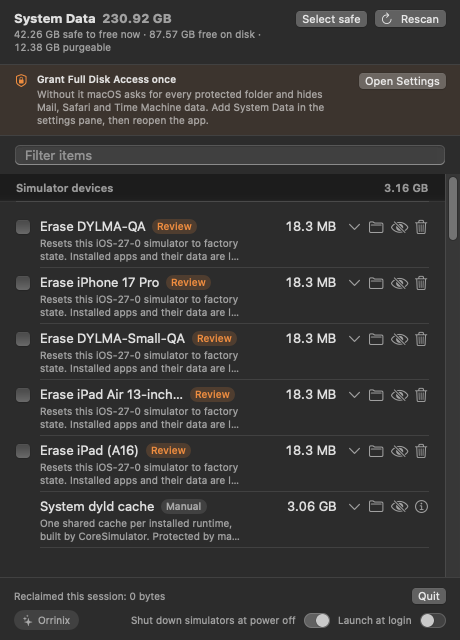
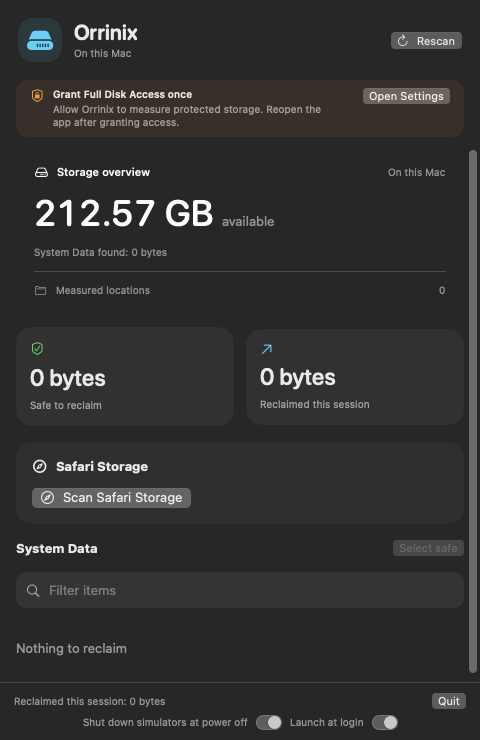
feat: redesign Orrinix storage dashboard

diff --git a/Sources/Orrinix/Views/MenuView.swift b/Sources/Orrinix/Views/MenuView.swift
@@ -3,6 +3,7 @@ import SwiftUI
 
 struct MenuView: View {
     @Environment(ScanModel.self) private var model
+    @Environment(\.colorScheme) private var colorScheme
     @State private var pendingDeletion: StorageItem?
     @State private var confirmsBatch = false
     @State private var searchQuery = ""
@@ -14,10 +15,8 @@ struct MenuView: View {
     var body: some View {
         VStack(spacing: 0) {
             header
-            Divider()
             if !model.hasFullDiskAccess {
                 accessBanner
-                Divider()
             }
             content
             Divider()
@@ -27,7 +26,8 @@ struct MenuView: View {
             }
             footer
         }
-        .frame(width: 460, height: 640)
+        .frame(width: 480, height: 740)
+        .background(.regularMaterial)
         .task {
             if !model.hasScanned, !model.isScanning { await model.scan() }
         }
@@ -85,22 +85,21 @@ struct MenuView: View {
     // MARK: Header
 
     private var header: some View {
-        HStack(alignment: .firstTextBaseline) {
+        HStack(spacing: 12) {
+            Image(systemName: "internaldrive.fill")
+                .font(.system(size: 23, weight: .medium))
+                .foregroundStyle(.cyan)
+                .frame(width: 44, height: 44)
+                .background(.cyan.opacity(0.10), in: RoundedRectangle(cornerRadius: 14))
             VStack(alignment: .leading, spacing: 2) {
                 HStack(alignment: .firstTextBaseline, spacing: 6) {
-                    Text(L("System Data"))
-                        .font(.headline)
-                    if !model.visibleItems.isEmpty {
-                        Text(model.measuredBytes.byteString)
-                            .font(.headline)
-                            .foregroundStyle(.secondary)
-                            .monospacedDigit()
-                    }
+                    Text("Orrinix")
+                        .font(.system(size: 21, weight: .semibold, design: .rounded))
                 }
-                Text(subtitle)
+                Text(model.isScanning ? model.phase : L("On this Mac"))
                     .font(.caption)
                     .foregroundStyle(.secondary)
-                    .monospacedDigit()
+                    .lineLimit(1)
             }
             Spacer()
             if model.isScanning {
@@ -108,13 +107,6 @@ struct MenuView: View {
                     .controlSize(.small)
                     .accessibilityLabel(L("Scanning"))
             } else {
-                if !model.visibleItems.isEmpty {
-                    Button(L("Select safe")) {
-                        model.selectAllSafe()
-                    }
-                    .controlSize(.small)
-                    .help(L("Select every item that is regenerated automatically"))
-                }
                 Button {
                     Task { await model.scan() }
                 } label: {
@@ -123,8 +115,7 @@ struct MenuView: View {
                 .controlSize(.small)
             }
         }
-        .padding(.horizontal, 14)
-        .padding(.vertical, 10)
+        .padding(18)
     }
 
     private var subtitle: String {
@@ -147,7 +138,7 @@ struct MenuView: View {
             VStack(alignment: .leading, spacing: 2) {
                 Text(L("Grant Full Disk Access once"))
                     .font(.caption.weight(.semibold))
-                Text(L("Without it macOS asks for every protected folder and hides Mail, Safari and Time Machine data. Add System Data in the settings pane, then reopen the app."))
+                Text(L("Allow Orrinix to measure protected storage. Reopen the app after granting access."))
                     .font(.caption)
                     .foregroundStyle(.secondary)
             }
@@ -159,49 +150,53 @@ struct MenuView: View {
         }
         .padding(.horizontal, 14)
         .padding(.vertical, 8)
-        .background(.orange.opacity(0.08))
+        .background(.orange.opacity(0.08), in: RoundedRectangle(cornerRadius: 12))
+        .padding(.horizontal, 16)
+        .padding(.bottom, 10)
     }
 
     // MARK: Content
 
     @ViewBuilder
     private var content: some View {
-        if model.visibleItems.isEmpty {
-            VStack(spacing: 8) {
+        ScrollView {
+            VStack(alignment: .leading, spacing: 16) {
+                overview
                 SafariStorageCard(model: model.safari) {
                     NSWorkspace.shared.open(Self.fullDiskAccessPane)
                 }
-                .padding(.horizontal, 14)
-                .padding(.top, 10)
-                Spacer()
-                if model.isScanning {
-                    ProgressView()
-                    Text(L("Measuring…"))
-                        .foregroundStyle(.secondary)
-                } else {
-                    Image(systemName: "checkmark.circle")
-                        .font(.largeTitle)
-                        .foregroundStyle(.secondary)
-                    Text(L("Nothing to reclaim"))
-                        .foregroundStyle(.secondary)
+                .groupBoxStyle(StorageGroupBoxStyle())
+                HStack {
+                    Text(L("System Data")).font(.headline)
+                    Spacer()
+                    Button(L("Select safe")) { model.selectAllSafe() }
+                        .controlSize(.small)
+                        .disabled(model.visibleItems.isEmpty)
                 }
-                Spacer()
-            }
-            .frame(maxWidth: .infinity)
-        } else {
-            List {
-                Section {
-                    SafariStorageCard(model: model.safari) {
-                        NSWorkspace.shared.open(Self.fullDiskAccessPane)
-                    }
-                    .padding(.vertical, 3)
-                }
-                Section {
+                HStack(spacing: 8) {
+                    Image(systemName: "magnifyingglass").foregroundStyle(.secondary)
                     TextField(L("Filter items"), text: $searchQuery)
-                        .textFieldStyle(.roundedBorder)
+                        .textFieldStyle(.plain)
+                }
+                .padding(10)
+                .background(.quaternary.opacity(0.4), in: RoundedRectangle(cornerRadius: 10))
+                if model.visibleItems.isEmpty {
+                    HStack {
+                        if model.isScanning { ProgressView().controlSize(.small) }
+                        Text(model.isScanning ? L("Measuring…") : L("Nothing to reclaim"))
+                            .foregroundStyle(.secondary)
+                    }.padding(.vertical, 16)
+                } else if filteredCategories.isEmpty {
+                    Text(L("No matching locations")).foregroundStyle(.secondary).padding(.vertical, 16)
                 }
                 ForEach(filteredCategories, id: \.category) { group in
-                    Section {
+                    VStack(alignment: .leading, spacing: 10) {
+                        HStack {
+                            Text(group.category.title).font(.subheadline.weight(.semibold))
+                            Spacer()
+                            Text(group.total.byteString).monospacedDigit().foregroundStyle(.secondary)
+                        }
+                        Divider()
                         ForEach(group.items) { item in
                             ItemRow(
                                 item: item,
@@ -212,19 +207,60 @@ struct MenuView: View {
                                 onHide: { model.hide(item) }
                             )
                         }
-                    } header: {
-                        HStack {
-                            Text(group.category.title)
-                            Spacer()
-                            Text(group.total.byteString)
-                                .monospacedDigit()
-                        }
                     }
+                    .padding(14)
+                    .background(.quaternary.opacity(0.25), in: RoundedRectangle(cornerRadius: 16))
                 }
             }
-            .listStyle(.inset)
-            .scrollContentBackground(.hidden)
+            .padding(.horizontal, 16)
+            .padding(.bottom, 16)
         }
+    }
+
+    private var overview: some View {
+        VStack(spacing: 12) {
+            VStack(alignment: .leading, spacing: 12) {
+                HStack {
+                    Label(L("Storage overview"), systemImage: "internaldrive")
+                        .font(.subheadline.weight(.medium))
+                    Spacer()
+                    Text(model.isScanning ? L("Scanning") : L("On this Mac"))
+                        .font(.caption).foregroundStyle(.secondary)
+                }
+                HStack(alignment: .firstTextBaseline, spacing: 8) {
+                    Text(model.freeBytes.byteString)
+                        .font(.system(size: 36, weight: .medium, design: .rounded))
+                        .monospacedDigit()
+                    Text(L("available")).foregroundStyle(.secondary)
+                }
+                Text(L("System Data found: %@", model.measuredBytes.byteString))
+                    .font(.caption).foregroundStyle(.secondary)
+                Divider()
+                HStack {
+                    Label(L("Measured locations"), systemImage: "folder")
+                    Spacer()
+                    Text("\(model.visibleItems.count)").monospacedDigit()
+                }.font(.caption).foregroundStyle(.secondary)
+            }
+            .padding(18)
+            .foregroundStyle(colorScheme == .dark ? Color.white : Color.black)
+            .modifier(OverviewSurface())
+            HStack(spacing: 12) {
+                metric(title: L("Safe to reclaim"), value: model.safeBytes.byteString, symbol: "checkmark.shield", tint: .green)
+                metric(title: L("Reclaimed this session"), value: model.reclaimedBytes.byteString, symbol: "arrow.up.right", tint: .cyan)
+            }
+        }
+    }
+
+    private func metric(title: String, value: String, symbol: String, tint: Color) -> some View {
+        VStack(alignment: .leading, spacing: 8) {
+            Image(systemName: symbol).foregroundStyle(tint)
+            Text(value).font(.system(size: 23, weight: .medium, design: .rounded)).monospacedDigit()
+            Text(title).font(.caption).foregroundStyle(.secondary)
+        }
+        .frame(maxWidth: .infinity, alignment: .leading)
+        .padding(14)
+        .background(.quaternary.opacity(0.3), in: RoundedRectangle(cornerRadius: 16))
     }
 
     /// The scan can surface dozens of locations. Filtering stays local to the
@@ -292,8 +328,6 @@ struct MenuView: View {
                 .keyboardShortcut("q")
             }
             HStack {
-                authorBadge
-                Spacer()
                 Toggle(L("Shut down simulators at power off"), isOn: Binding(
                     get: { model.shutsDownSimulatorsAtPowerOff },
                     set: { model.shutsDownSimulatorsAtPowerOff = $0 }
@@ -384,5 +418,31 @@ struct MenuView: View {
             lines.append(L("1 item needs root; the password is asked once."))
         }
         return lines.joined(separator: "\n")
+    }
+}
+
+private struct OverviewSurface: ViewModifier {
+    @Environment(\.accessibilityReduceTransparency) private var reduceTransparency
+
+    @ViewBuilder
+    func body(content: Content) -> some View {
+        if reduceTransparency {
+            content.background(Color(nsColor: .controlBackgroundColor), in: RoundedRectangle(cornerRadius: 20))
+        } else if #available(macOS 26.0, *) {
+            content.glassEffect(.regular, in: RoundedRectangle(cornerRadius: 20))
+        } else {
+            content.background(.thinMaterial, in: RoundedRectangle(cornerRadius: 20))
+        }
+    }
+}
+
+private struct StorageGroupBoxStyle: GroupBoxStyle {
+    func makeBody(configuration: Configuration) -> some View {
+        VStack(alignment: .leading, spacing: 14) {
+            configuration.label
+            configuration.content.frame(maxWidth: .infinity, alignment: .leading)
+        }
+        .padding(16)
+        .background(.quaternary.opacity(0.25), in: RoundedRectangle(cornerRadius: 16))
     }
 }

diff --git a/Sources/Orrinix/Services/WindowSnapshot.swift b/Sources/Orrinix/Services/WindowSnapshot.swift
@@ -11,19 +11,22 @@ enum WindowSnapshot {
         app.appearance = NSAppearance(named: .darkAqua)
 
         let model = ScanModel(scansAutomatically: false)
-        await model.scan()
+        if !CommandLine.arguments.contains("--skip-scan") {
+            await model.scan()
+        }
         render(model: model, to: path)
     }
 
     /// Synchronous on purpose: pumping the run loop is not allowed from an
     /// async function, and SwiftUI needs a few turns to lay the list out.
     private static func render(model: ScanModel, to path: String) {
-        let size = NSSize(width: 460, height: 640)
+        let size = NSSize(width: 480, height: 740)
         let appearance = NSAppearance(named: .darkAqua)
         // The menu bar panel paints its own material; offscreen there is
         // none, so give the view an opaque window background to draw on.
         let root = MenuView()
             .environment(model)
+            .environment(\.colorScheme, .dark)
             .background(Color(nsColor: .windowBackgroundColor))
         let host = NSHostingView(rootView: root)
         host.frame = NSRect(origin: .zero, size: size)

diff --git a/README.md b/README.md
@@ -12,8 +12,10 @@
 </p>
 
 <p align="center">
-  <img src="assets/screenshot.png" width="460" alt="The System Data window listing simulator runtimes, Xcode caches and other items with their sizes">
+  <img src="assets/screenshot.png" width="480" alt="The redesigned Orrinix dashboard before scanning, showing available storage and Safari storage controls">
 </p>
+
+<p align="center"><sub>Initial dashboard on macOS. Cleanup totals populate after scanning.</sub></p>
 
 ---
 
@@ -29,9 +31,17 @@ click.
 
 Built for Mac users who want clear answers before they clean.
 
+The redesigned dashboard brings a compact storage overview, quick reclaim
+metrics, grouped cleanup locations, and integrated search. The overview uses
+native Liquid Glass on macOS 26 and later, with a material fallback on macOS
+14 and 15 and an opaque surface when Reduce Transparency is enabled.
+
 ## Install
 
-Build from source (Xcode 16 or later):
+Build from source (Xcode 26 or later):
+
+The screenshots show the latest source UI. The downloadable `v1.0.1` release
+predates this redesign. Use Xcode 26 or later to build the new Liquid Glass UI.
 
 ```bash
 git clone https://github.com/Abbasm234/orrinix.git
@@ -46,7 +56,7 @@ The app has a **Filter items** field, plus a **Launch at login** switch in its f
 
 - **Measured inventory.** The icon shows storage locations Orrinix found; it
   is a useful cleanup total, not a promise to exactly match macOS Storage's
-  **System Data** category. The window header says how much of it is safe to
+  **System Data** category. The dashboard shows how much of it is safe to
   free right now. It scans on launch and once a day.
 - **Every item has a real size**, measured on disk, plus a badge:
   **Safe** regenerates automatically, **Review** costs you something (a
@@ -179,10 +189,10 @@ workflow. It verifies the signature, Hardened Runtime, nested code, stapled
 ticket and Gatekeeper before creating the final ZIP:
 
 ```bash
-scripts/notarize-release.sh 0.3.5
+scripts/notarize-release.sh
 ```
 
-The final artifact is `dist/Orrinix-v0.3.5-macOS.zip` with a matching SHA-256
+The final artifact is `dist/Orrinix-vVERSION-macOS.zip` with a matching SHA-256
 file. It requires a Developer ID Application certificate and an
 `OrrinixNotary` Keychain profile; see [`docs/releasing.md`](docs/releasing.md).
 
@@ -199,7 +209,7 @@ notarytool Keychain profile.
 
 ## Requirements
 
-macOS 14 or later. Xcode 16 or later to build. Xcode command line tools for
+macOS 14 or later. Xcode 26 or later to build. Xcode command line tools for
 the simulator and Xcode categories; other tools are optional and skipped when
 absent.
 
